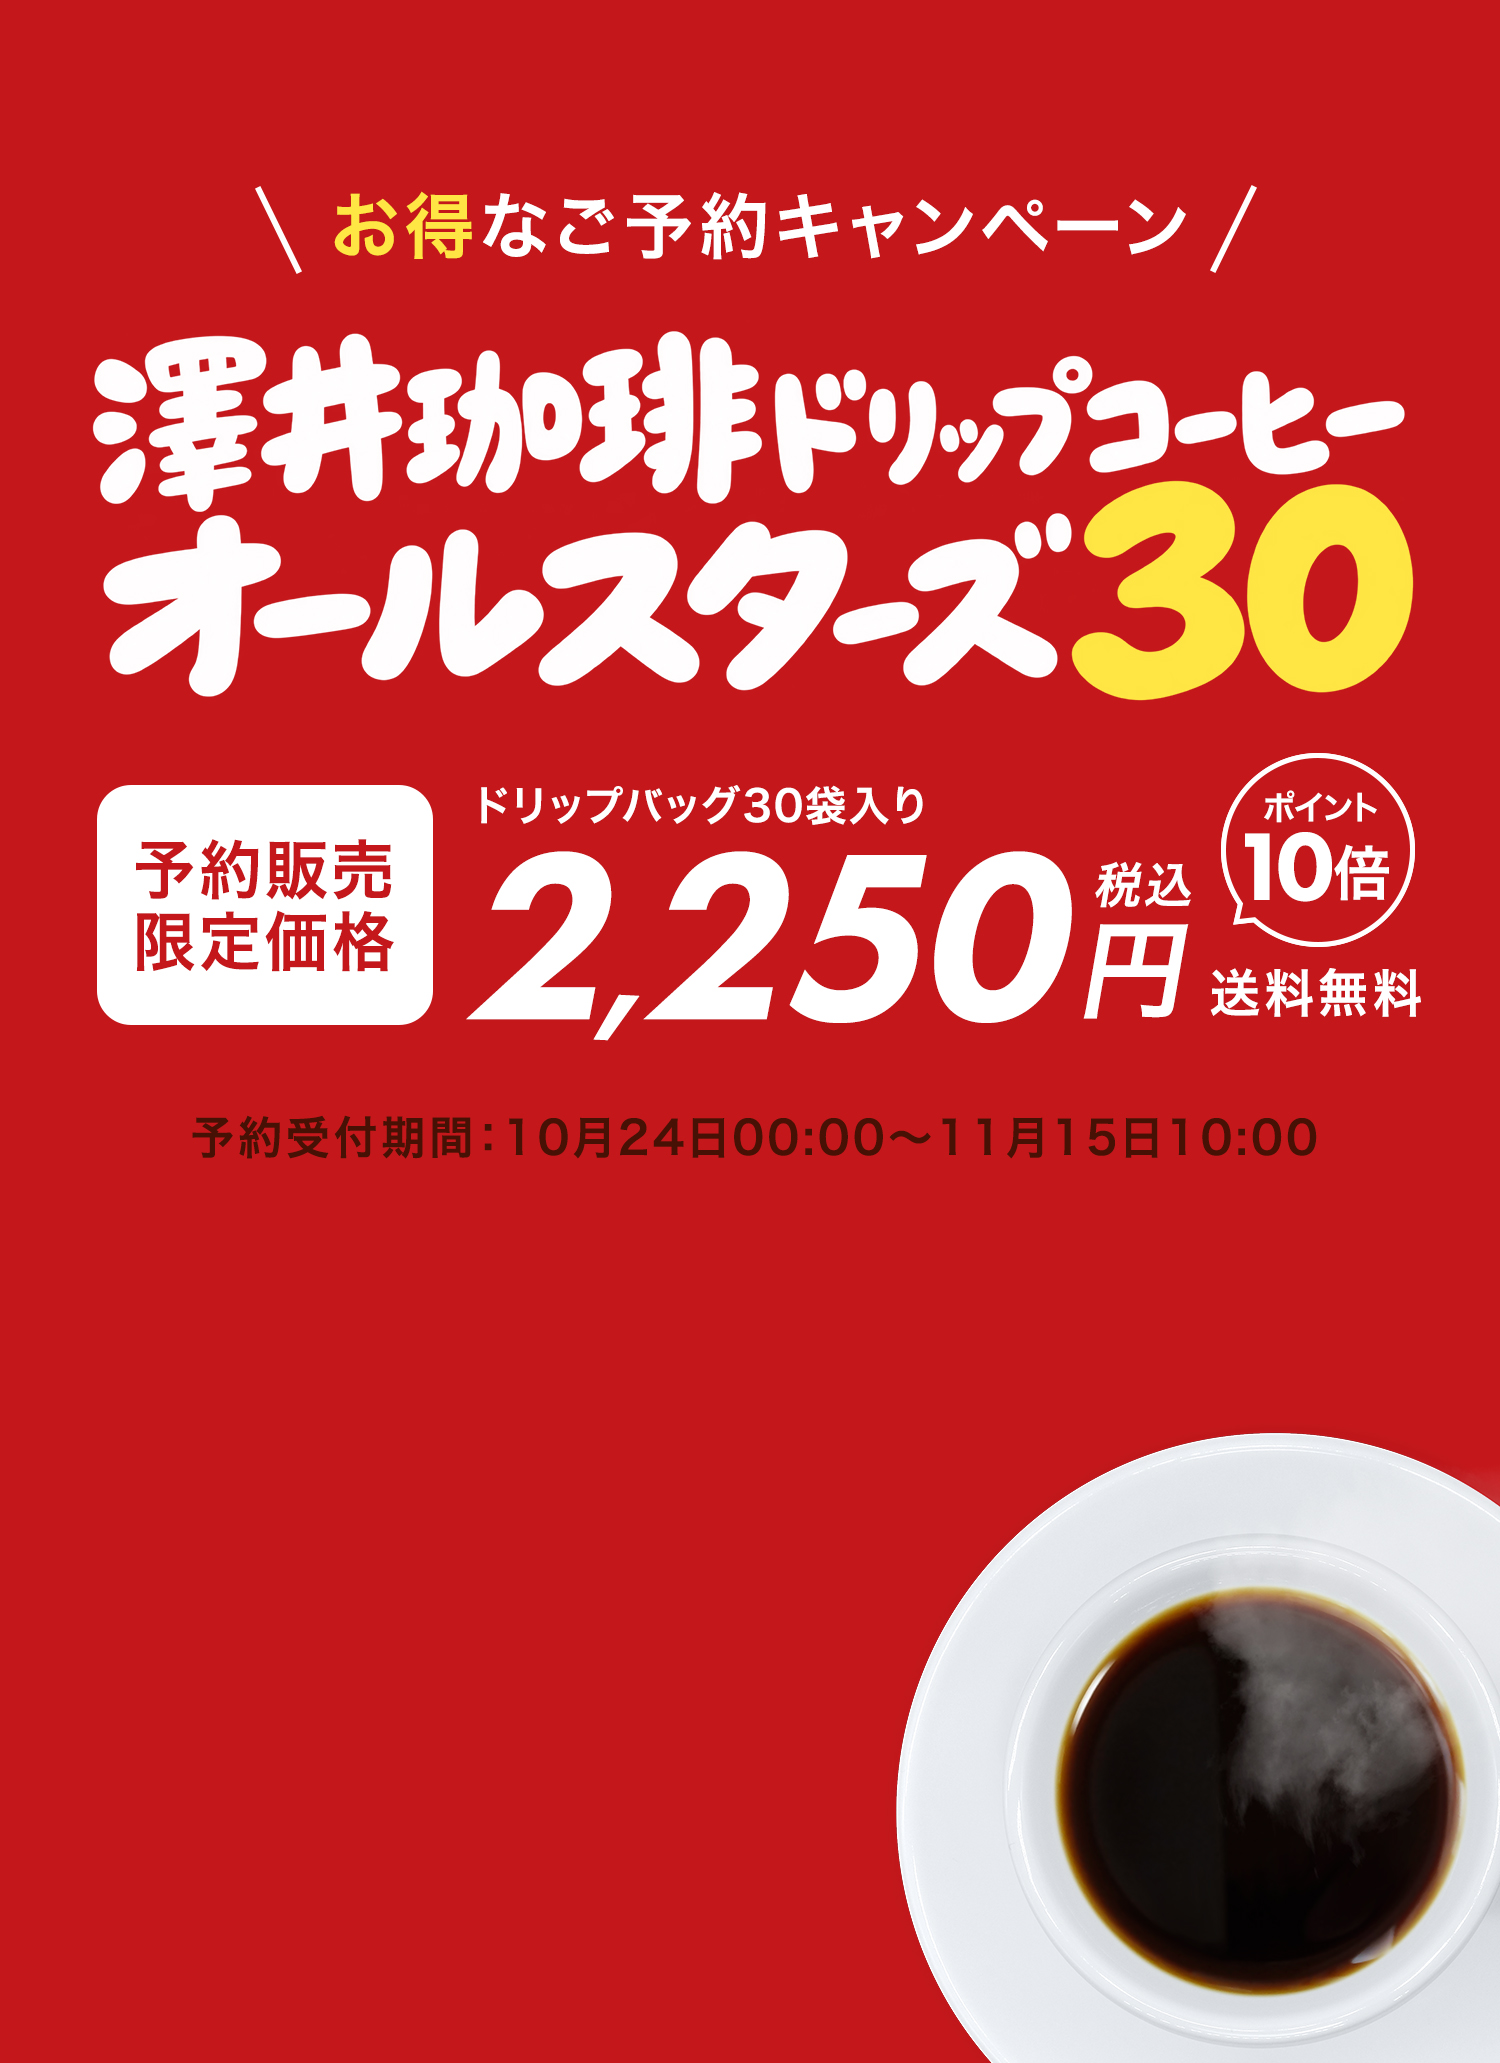
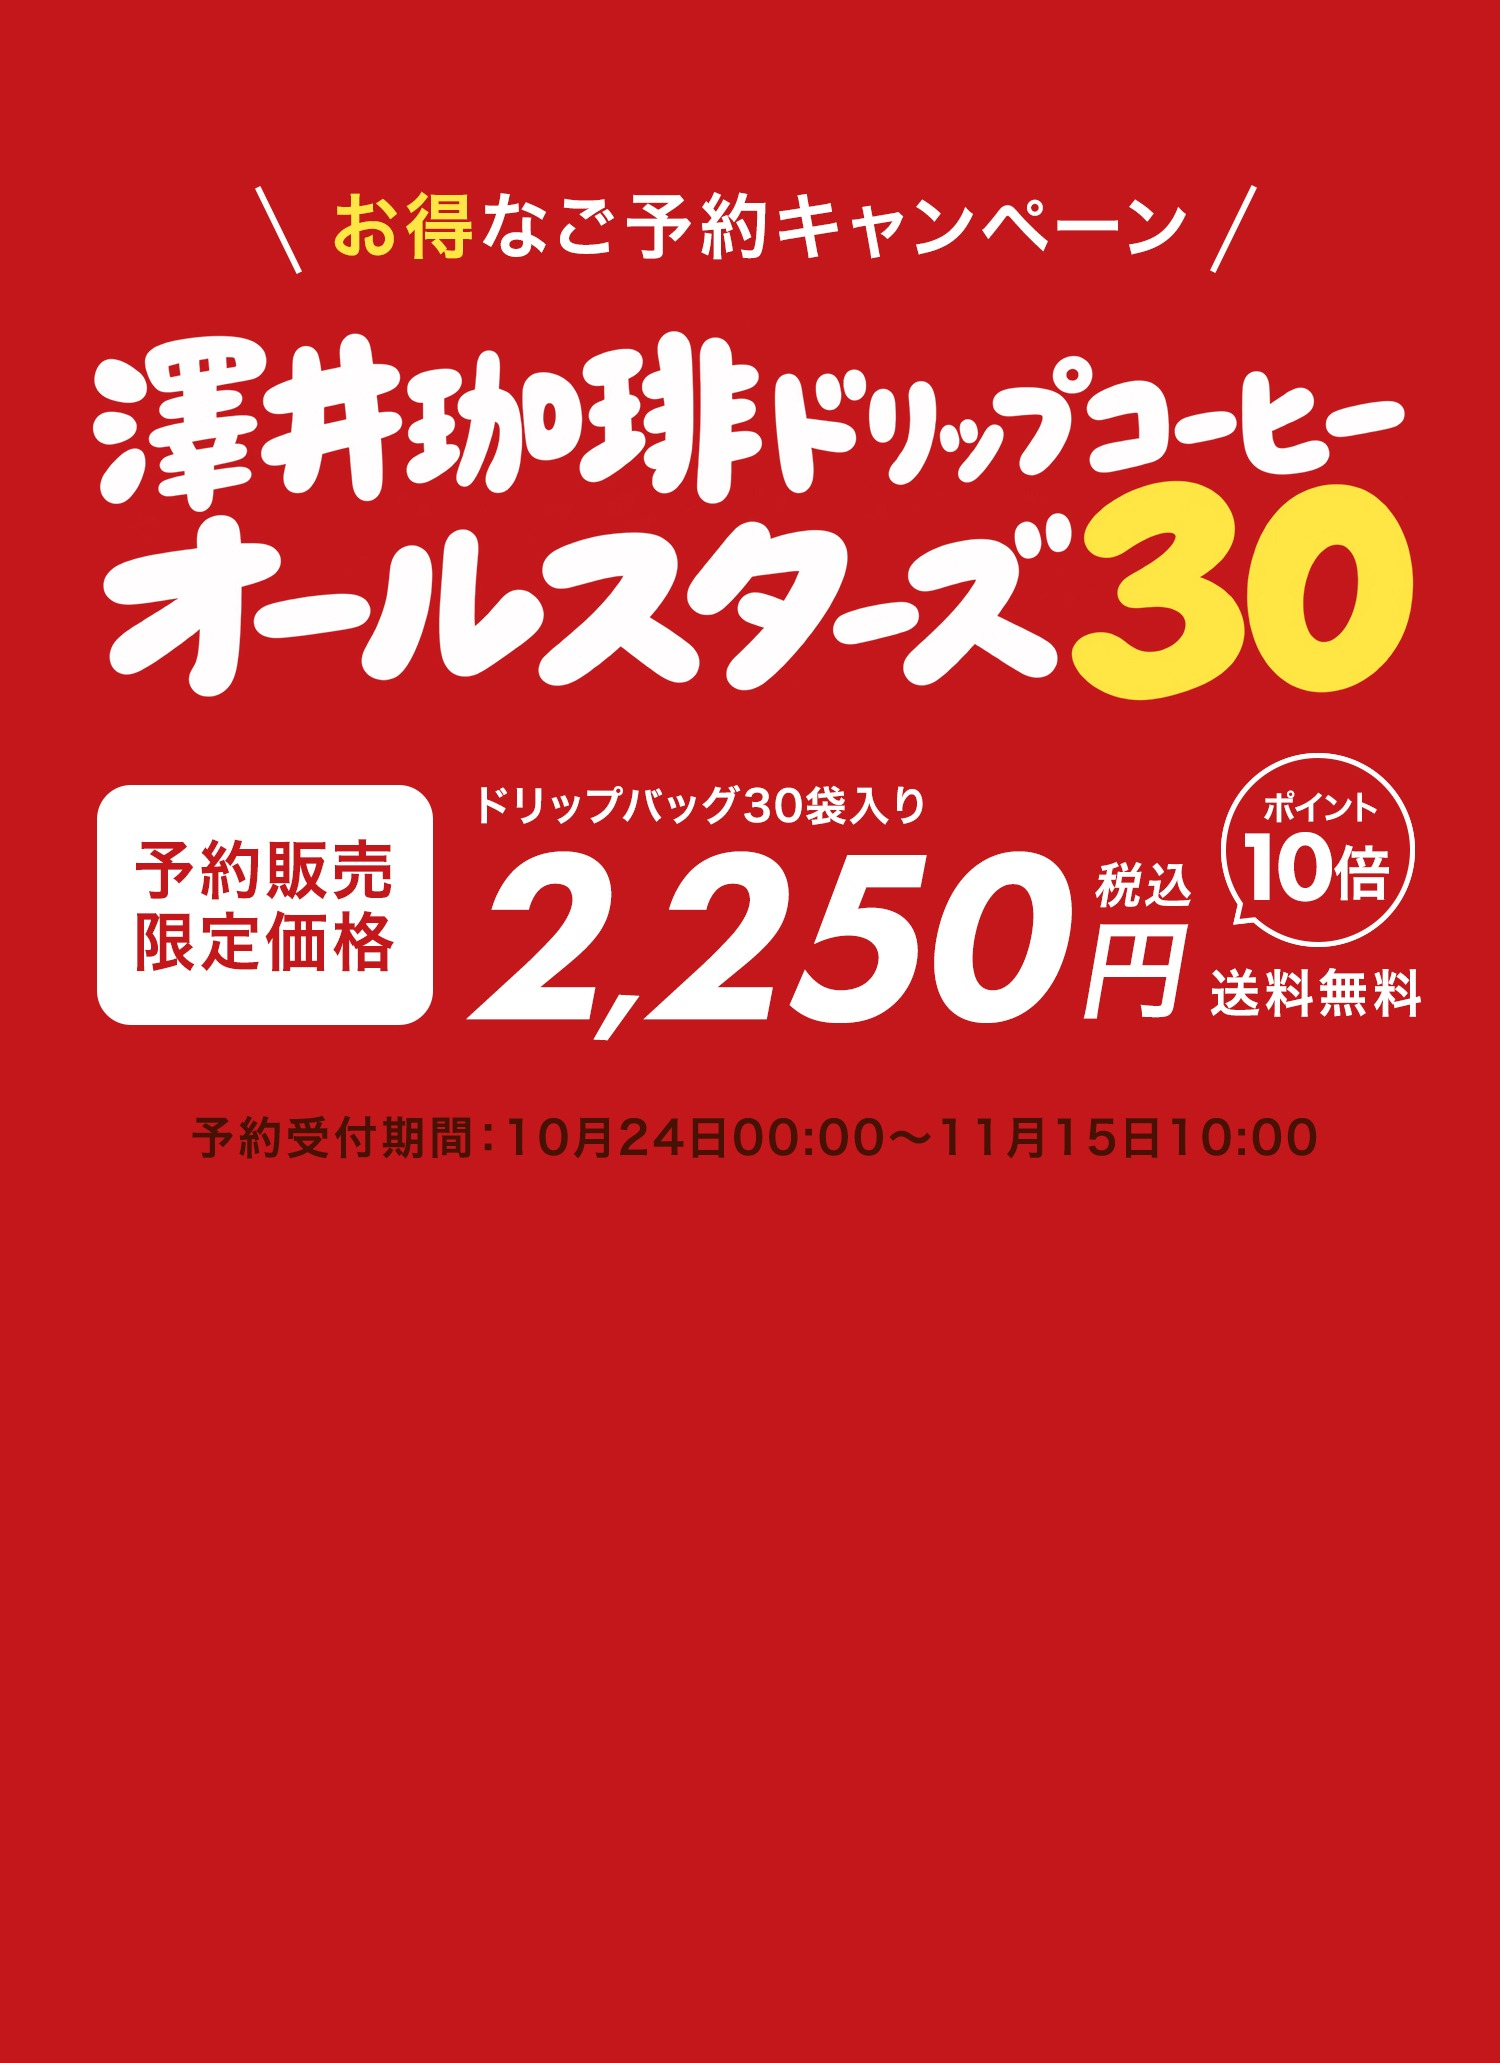
スマホFV：画像に入っていたカップを消して袋がカップの下を流れるように／流れる速さを少し速く（60秒）

Changed region(s): [[0.5827, 0.6825, 1.0, 1.0], [0.276, 0.0931, 0.3067, 0.1241], [0.184, 0.4343, 0.2147, 0.4653]]

diff --git a/index.html b/index.html
@@ -921,8 +921,8 @@ function flowStrip(el,axis,dir,sec){
   const a=coffees.slice(0,15),b=coffees.slice(15).reverse();
   document.getElementById('spTrack1').innerHTML=(a.map(cell).join('')).repeat(2);
   document.getElementById('spTrack2').innerHTML=(b.map(cell).join('')).repeat(2);
-  flowStrip(document.getElementById('spTrack1'),'x',-1,70);
-  flowStrip(document.getElementById('spTrack2'),'x',1,70);
+  flowStrip(document.getElementById('spTrack1'),'x',-1,60);
+  flowStrip(document.getElementById('spTrack2'),'x',1,60);
 })();
 
 /* ラインナップのカード */

diff --git a/README.md b/README.md
@@ -24,7 +24,7 @@
 ## 構成
 0. **PCのFVは画像（仮）＋流れるドリップバッグ**：背景は `img/fv-pc_p10.jpg`（2500×1200。ポイント10倍版。楽天GOLDに公開中の画像を反映。発売日11月15日／オールスターズ30／予約販売限定価格2,250円 税込 送料無料／さらにポイント10倍／予約受付期間）。左の2列（画像の x=119〜281・311〜474 の位置。`.fv-col.c1` left:4.75%／`.c2` left:12.45%）に30種のドリップバッグを縦に流す（左列は上へ、右列は下へ）。画像を差し替えるときは同じファイル名で上書き（列の位置を変える場合は `.fv-col` の left / width）。スマホ（768px以下）は動くFVを表示
 
-1. **スマホのFV（768px以下）**：背景は `img/fv-sp_p10.jpg`（1500×2063。ポイント10倍版。楽天GOLDに公開中の画像を反映。カップも画像に入っている）。30種を15袋ずつに分けて、画像の y=1252〜1593 と y=1622〜1963 の位置に、30種のドリップバッグが横に流れる2列（上の列は左へ、下の列は右へ）。右下にコーヒーカップ `img/fv-sp-cup.webp`（「スマホFVコーヒー画像.png」をwebp化。幅は画面の約51%、右と下は少しはみ出す）を袋の列の上に重ねる。位置は「スマホFVイメージ.jpg」に合わせて％指定（`.fv-row` `.fv-sp-cup`）
+1. **スマホのFV（768px以下）**：背景は `img/fv-sp_p10.jpg`（1500×2063。ポイント10倍版。楽天GOLDに公開中の画像を反映。元の画像に入っていたカップは消して赤で塗りつぶし、カップは `img/fv-sp-cup.webp` を袋の上に重ねる＝袋が完全にカップの下を流れる）。30種を15袋ずつに分けて、画像の y=1252〜1593 と y=1622〜1963 の位置に、30種のドリップバッグが横に流れる2列（上の列は左へ、下の列は右へ）。右下にコーヒーカップ `img/fv-sp-cup.webp`（「スマホFVコーヒー画像.png」をwebp化。幅は画面の約51%、右と下は少しはみ出す）を袋の列の上に重ねる。位置は「スマホFVイメージ.jpg」に合わせて％指定（`.fv-row` `.fv-sp-cup`）
 3. 大きな「30 DAYS, 30 COFFEES!」（1文字ずつ跳ねて出てくる）→「同じ一杯は、ひとつもない。」→ 福袋の演出（赤い角丸の枠の中。スクロールで見えたら開始：パッケージ写真の袋が1袋ずつ箱に落ちる→30袋そろうと箱が震えてフタが飛び、光の輪＋紙吹雪とともに15袋が箱から扇形に飛び出す。箱は赤いギンガムチェック＋クリームのリボンと蝶結び、フタは赤の水玉。箱の下（赤い枠の中）に「0 / 30 袋」のカウント、30袋そろうと黄色（#ffe544）の大きな「ALL STARS 30」を箱の下に重ねて表示。箱をタップでもう一度）→ メッセージ本文
 4. ご予約のご案内（赤いストライプ地に「ドリップバッグ30袋入り／ご予約受付中！（大きく）」→ カウントダウン → 白いカード）。カウントダウンは日本時間で、10/24 00:00より前は「予約受付開始まで」、受付中は「ご予約特典終了まで（11/15 10:00）」、終了後は「ご予約受付は終了しました」と自動で切り替わる（日時は index.html の START / END で変更）。見出し「ご予約受付中！」とカード上のラベル「予約受付中」も同じタイミングで切り替え：開始前「まもなく予約受付開始！」「10/24（土）予約受付開始」／受付中「ご予約受付中！」「予約受付中」／終了後「ご予約受付は終了しました」「予約受付終了」（文言は各要素の data-phase-pre / on / end）：予約受付中バッジ、商品名、予約販売限定価格 2,250円（税込）、送料無料・ポイント10倍、内容・予約受付期間・発売日の一覧、予約ボタン
 4.5 **フルスクリーンの写真**：`img/photo.jpg`（2500×800。「澤井珈琲30」フォルダの photo.jpg をそのままコピー）を画面幅いっぱいに表示。スマホは高さ260pxでカップを中心に左右を切り取り
@@ -35,7 +35,7 @@
 10. 商品概要＋予約ボタン
 11. フッター（ロゴの赤 #d0121c。ロゴは澤井珈琲トップ https://www.rakuten.co.jp/sawaicoffee-tea/ へリンク。PCのみ「特集トップページに戻る」ボタン）／スマホ下部の固定ボタン（左右いっぱいの黒い帯「ご予約はこちら」）
 
-FVで袋が流れる動き（PCの縦2列・スマホの横2列）は、CSSアニメーションではなくJSの `flowStrip()` で毎フレーム位置を指定しています（CSSアニメーションだと、iPhoneのSafariで画面外だった部分が描かれず袋の列が消えたり、更新すると止まったりするため）。速さは `flowStrip(…,70)` の秒数（半周にかける時間）で変更できます。
+FVで袋が流れる動き（PCの縦2列・スマホの横2列）は、CSSアニメーションではなくJSの `flowStrip()` で毎フレーム位置を指定しています（CSSアニメーションだと、iPhoneのSafariで画面外だった部分が描かれず袋の列が消えたり、更新すると止まったりするため）。速さは `flowStrip(…,秒数)` の秒数（半周にかける時間。スマホ60秒・PC70秒）で変更できます。
 
 `prefers-reduced-motion`（OSで「視差効果を減らす」を設定している方）には動きを止めて表示します。
 
